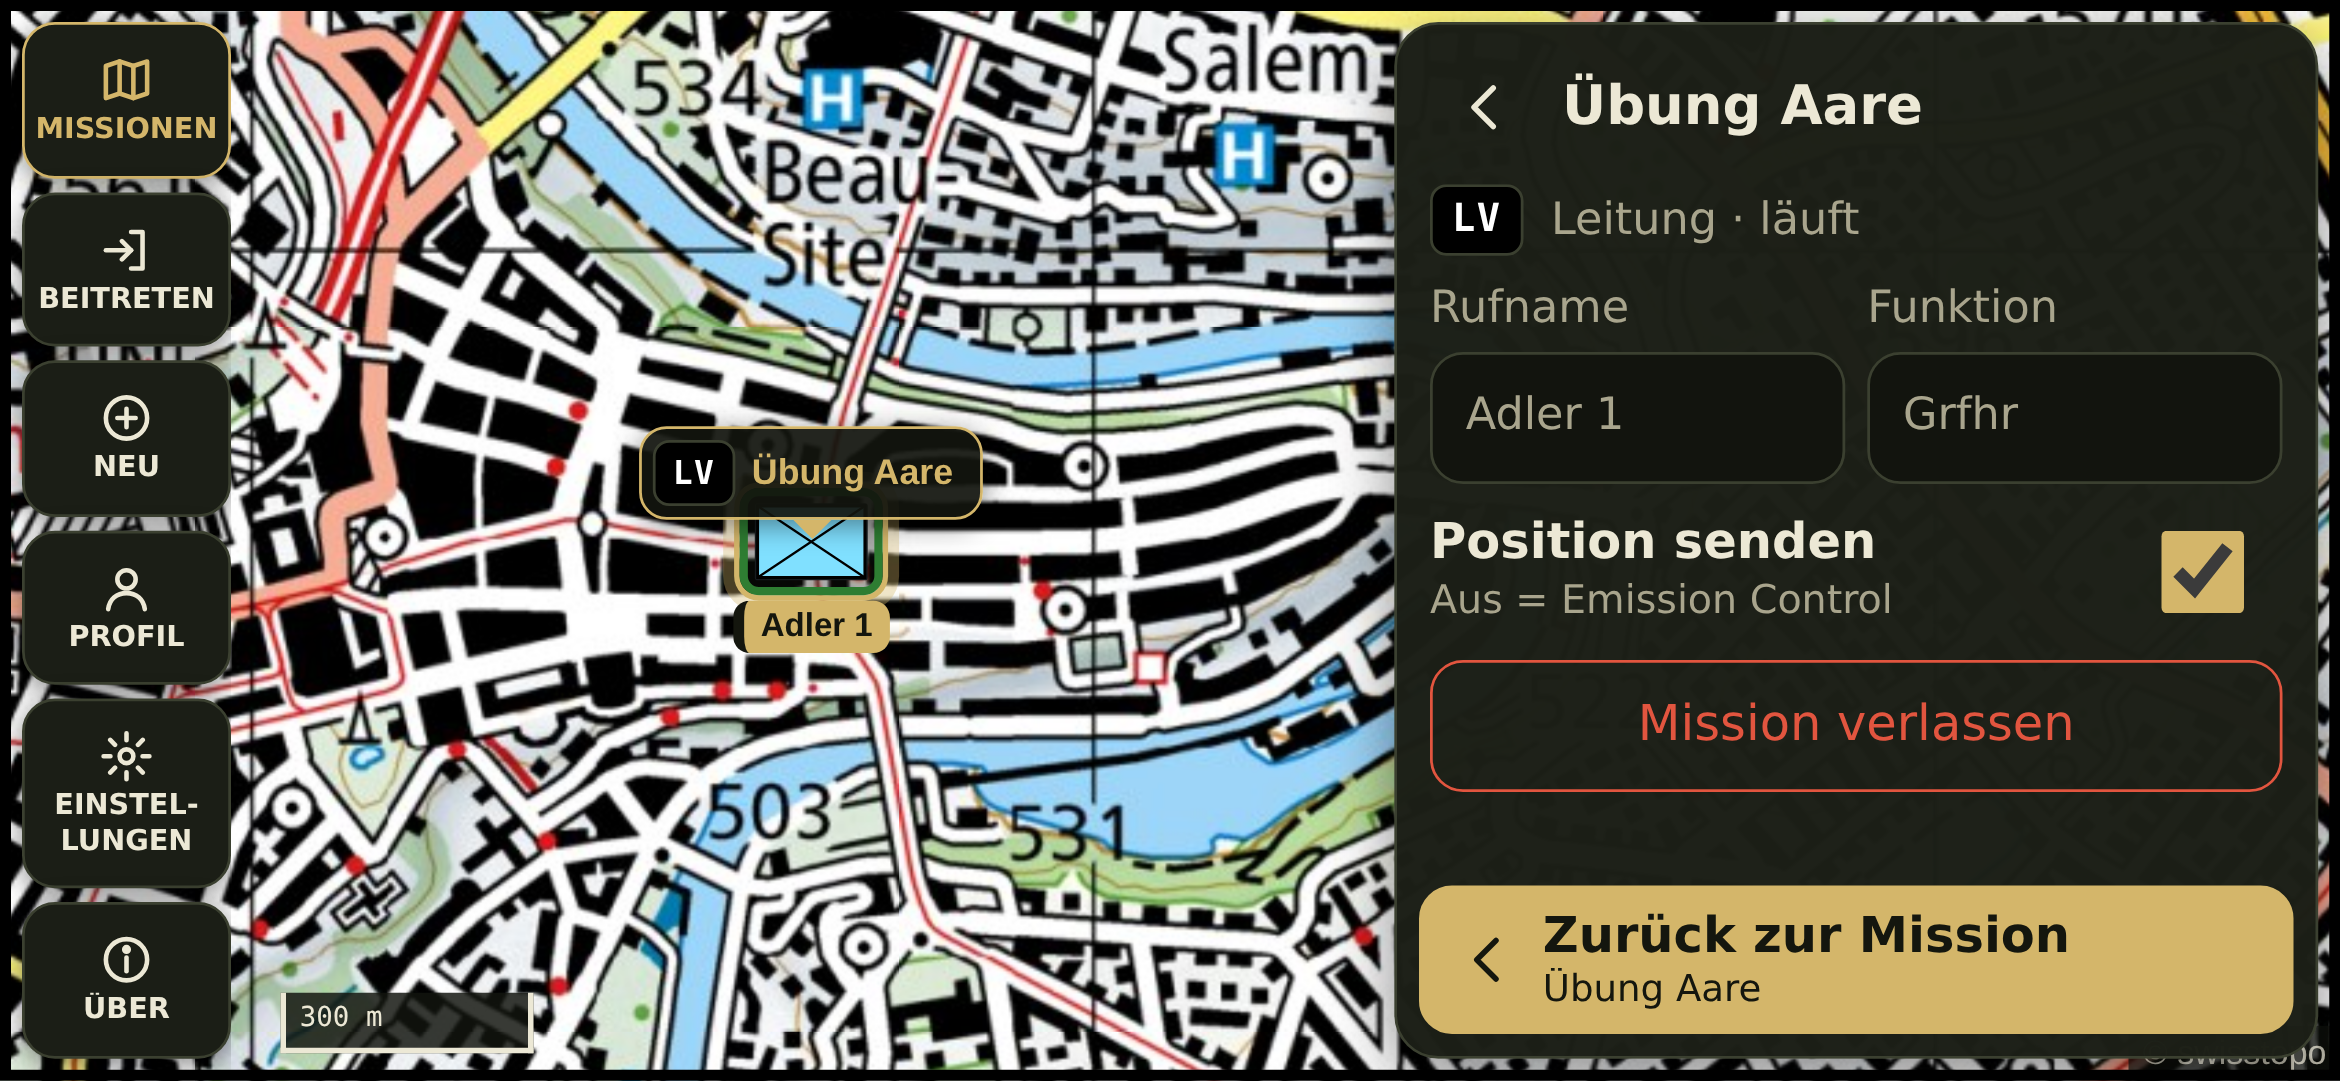
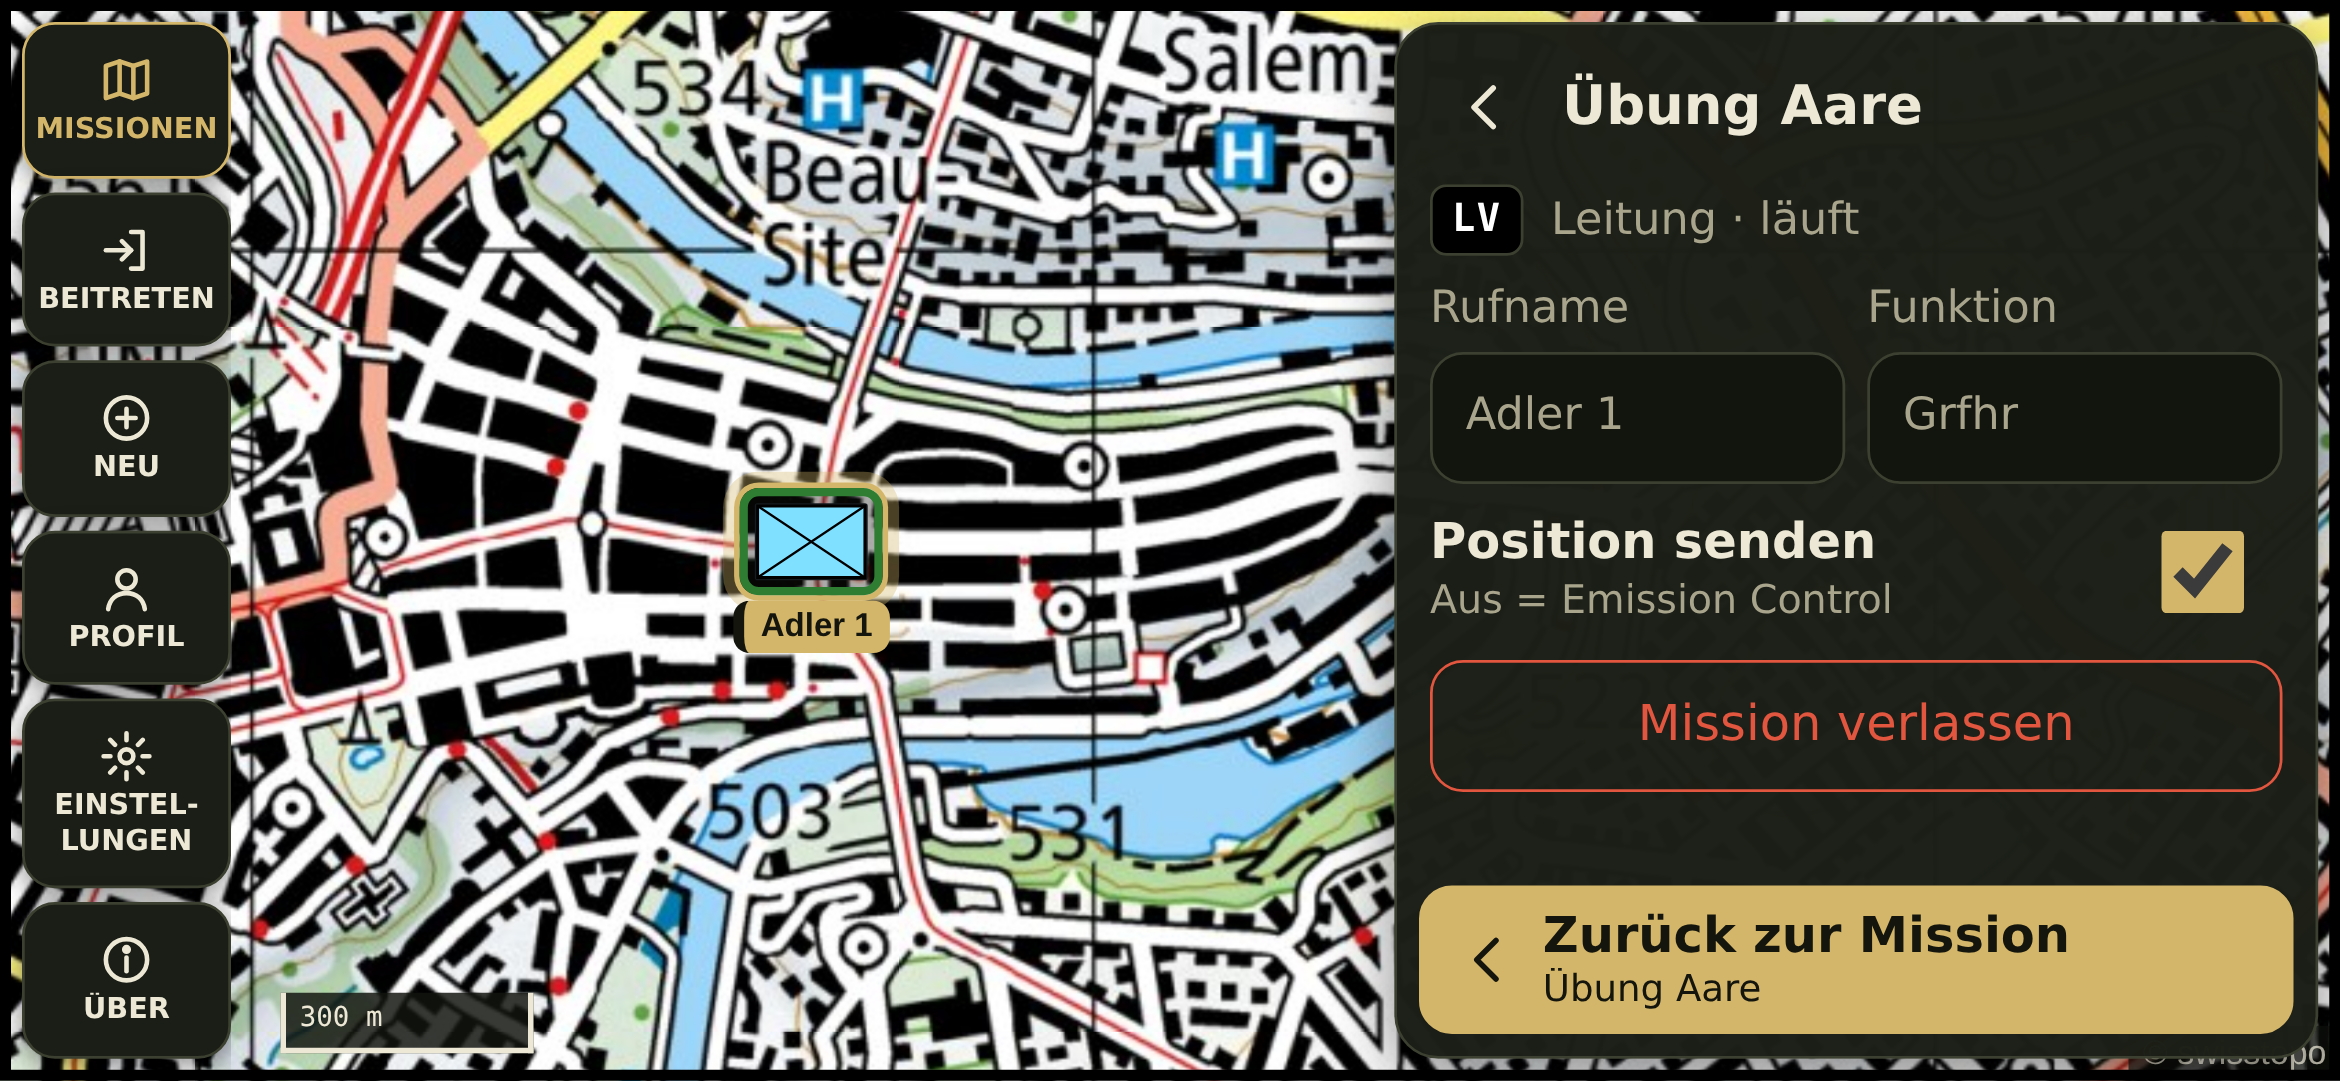
docs: Menü – App-Start immer im Menü, Nachbesserungen, Mutationsnachweis, Bilder
Claude-Session: https://claude.ai/code/session_01Fo5QxxrixuCWEFZHSUx93F

Changed region(s): [[0.2496, 0.3663, 0.4368, 0.519]]

diff --git a/docs/spec.md b/docs/spec.md
@@ -737,19 +737,21 @@ Was Spec v7 offen liess, kleinste vernünftige Wahl; Menü und Profil folgen sep
 
 ### Festgelegt beim Bau (Menü, 01.11.)
 Was Spec v7 und V4 offen liessen, kleinste vernünftige Wahl. Code: `client/src/components/menu/`, Logik `client/src/lib/missionen.ts`, Token und Liste in `client/src/lib/store.svelte.ts`.
-- **App-Start:** Ist eine Mission offen (`lagebild.token`), geht die App wie bisher direkt hinein – Neuladen (Live-Update, Android beendet die App) kostet im Einsatz keinen Tipp. Ohne offene Mission ist das Menü die Startseite (ersetzt den Login): mit `?code=` oder ohne Missionen auf «Beitreten», sonst «Meine Missionen». Aus der Mission öffnet «Menü» die Seite «Meine Missionen».
+- **App-Start (Juan 01.11.: «Immer ins Menü»):** Die App startet immer im Menü (ersetzt den Login), auch mit offener Mission (`lagebild.token`): Neustart, Neuladen, Live-Update und Wiederöffnen nach dem Beenden durch Android landen im Menü mit allen Fähnchen, auf «Beitreten» mit `?code=` oder ohne Missionen, sonst auf «Meine Missionen». Die offene Mission verbindet trotzdem sofort im Hintergrund (Verbindung und Position laufen wie bei «Menü» in der Mission); ein Tipp auf «Zurück zur Mission» geht hinein und fliegt zum gemerkten Ausschnitt. Der erste GPS-Fix zentriert die Karte im Menü nicht; vor dem ersten Snapshot merkt das Gerät keinen neuen Stand der Fähnchen (es wüsste noch nichts von den Zielobjekten). Aus der Mission öffnet «Menü» die Seite «Meine Missionen».
 - **Speicher:** `lagebild.missionen` = Meine Missionen (Lage, Token, Name, Phase, Rolle, Rufname, Funktion, Ausdehnung der Zielobjekte, letzter Ausschnitt), zuletzt besuchte vorne. `lagebild.token` bleibt das Token der offenen Mission: Geräte mit altem Stand bleiben nach dem Update in ihrer Mission, der Eintrag entsteht beim ersten Snapshot. `lagebild.profil` = Einheit, Symbol und zuletzt benutzter Rufname/Funktion. Das Aufräumen je Lage (`speicher.ts`) behält die Schlüssel aller Missionen der Liste.
 - **Abgleich:** `POST /api/missionen {tokens}` (höchstens 50) liefert je Token Lage, Name, Phase und Rolle oder `null` (gelöscht, entfernt); 60 Abfragen je Minute und IP. Bei jedem Öffnen des Menüs; ohne Netz bleibt der Stand vom letzten Besuch. `null` → Eintrag weg, Hinweis «Nicht mehr verfügbar (gelöscht oder entfernt): …».
 - **Stand der Fähnchen:** Zielobjekte und Kartenausschnitt der offenen Mission merkt das Gerät beim Öffnen des Menüs und wenn die App in den Hintergrund geht, nicht bei jeder Kartenbewegung. Ort = Mitte der Box um alle Taufen mit `ziel`, sonst Mitte des letzten Ausschnitts; nie besucht = kein Fähnchen.
-- **Auffächern:** Überlappende Fähnchen stehen als Reihe nebeneinander (nach ihrem Ort von links nach rechts), dünne Leine mit Punkt zum echten Ort; Reihen und einzelne Fähnchen bleiben in der freien Karte zwischen Menüspalte und Panel, eine zu breite Reihe bricht in Zeilen darüber um. Fähnchen sind Kartenobjekte: sie wachsen mit `--karte` wie Symbole, höchstens halb so breit wie die freie Karte (Name mit «…»). Weit weg (Zoom < 11) blendet das Menü die Zeichen der offenen Mission aus.
+- **Auffächern:** Überlappende Fähnchen stehen als Reihe nebeneinander (nach ihrem Ort von links nach rechts), dünne Leine mit Punkt zum echten Ort; Reihen und einzelne Fähnchen bleiben in der freien Karte zwischen Menüspalte und Panel, eine zu breite Reihe bricht in Zeilen darüber um. Fähnchen sind Kartenobjekte: sie wachsen mit `--karte` wie Symbole, höchstens halb so breit wie die freie Karte (Name mit «…»). Weit weg (Zoom < 11) blendet das Menü die Zeichen der offenen Mission aus, nah (Zoom über 13; die Übersicht zeigt höchstens 13) das Fähnchen der offenen Mission selbst, weil es dort ihr Symbol und das Zielobjekt verdeckt; andere Missionen bleiben. Namen brechen am Wortende (`overflow-wrap: break-word`, `hyphens: auto` mit `<html lang="de-CH">`), mitten im Wort nur, wenn ein einzelnes Wort allein nicht in die Zeile passt.
 - **Kamera:** «Meine Missionen» zeigt alle Fähnchen (höchstens Zoom 13), ohne Missionen die Schweiz; die Unterseite fliegt zu den Zielobjekten (bis Zoom 16), sonst zum letzten Ausschnitt. Menüspalte, Panel und Platz für die Fähnchen gehen als `padding` (fitBounds) bzw. `offset` (flyTo) ein, nie als bleibendes Map-Padding. «Mission öffnen» zeigt die Zielobjekte mit Rand für die Bedienung der Mission; «Zurück zur Mission» fliegt zum Ausschnitt, den die Mission beim Öffnen des Menüs hatte.
-- **Menü über der Mission:** Kopf, Ränder, Leiste und Panels der Mission sind ausgeblendet; Kartenlayer, Verbindung und GPS laufen. Öffnen bricht Fadenkreuz, Ring und Koordinaten-Karte ab; im Menü kein Radial-Menü; Esc schliesst das Menü.
+- **Menü über der Mission:** Kopf, Ränder, Leiste und Panels der Mission sind ausgeblendet; Kartenlayer, Verbindung und GPS laufen. Öffnen bricht Fadenkreuz, Ring und Koordinaten-Karte ab; im Menü kein Radial-Menü; Esc wirkt wie «Zurück zur Mission» (gleiche Funktion `zurueckZurMission`, fliegt zum gemerkten Ausschnitt).
 - **Bediengrössen:** Die Menüspalte scrollt, wenn sie nicht ins Fenster passt (Sehr gross auf niedrigem Handy, wie die Daumen-Ränder); Panelinhalt scrollt ebenso, der Hauptknopf von Beitreten/Neu bleibt sichtbar.
 - **Knopf «Menü»:** Daumen-Ränder quer zuunterst in der rechten Spalte (unter «Mehr»), hoch als fünfter Knopf im Dock; Klassisch in der Kopfzeile statt des Zahnrads. «Einstellungen» ist aus dem Mehr-Menü und den Panels verschwunden.
 - **Unterseite:** «Meine Angaben» (Rufname, Funktion) und «Position senden» nur in der offenen Mission, beides braucht die Verbindung; geschlossene zeigen den Stand vom letzten Besuch. Ein geänderter Rufname/Funktion wird zugleich Vorgabe fürs nächste Beitreten. «Mission verlassen» entfernt nur das Token vom Gerät (der Server bleibt unberührt, wie bisher «Lage verlassen»).
 - **Profil:** Einheit und Symbol wirken in der offenen Mission (`ich.aendern`) und bei neuen Beitritten; geschlossene Missionen behalten ihre Angaben (dort kann die Leitung die Einheit gesetzt haben). Gruppenführer: Einheitsfeld gesperrt mit Hinweis.
 - **Beitreten / Neue Mission:** Die Einheit fragt das Formular nur ab, solange das Profil keine hat. Der Hauptknopf bleibt sichtbar, wenn das Formular quer scrollt.
 - **Über:** Web-Stand, Protokoll, Update-Zustand mit «Neu laden» bzw. APK-Download; im Browser «Android-App installieren», sobald der Server eine APK anbietet (auch ausserhalb von Android, zum Weitergeben).
-- **Token-Haltung (Gate-Auflage):** Regel `weiterNach` in `missionen.ts`. Nach Close 4005 verbindet der Client nie mit dem verworfenen Token, sondern wartet, bis im Speicher (`lagebild.missionen`, frisch gelesen) ein anderes Token dieser Mission steht – der Server schliesst vor der Beitritts-Antwort, auch im eigenen Tab –, höchstens 10 s, danach abmelden. `beendet` für ein Token, das nicht mehr gespeichert ist, gilt nicht: weiter mit dem gespeicherten. Auch die normale Wiederverbindung nimmt das gespeicherte Token. Beitreten speichert das neue Token, bevor es verbindet. Abmelden und Verlassen löschen nur Einträge mit dem eigenen Token und `lagebild.token` nur, wo noch das eigene steht.
+- **Token-Haltung (Gate-Auflage):** Regel `weiterNach` in `missionen.ts`. Nach Close 4005 verbindet der Client nie mit dem verworfenen Token, sondern wartet, bis im Speicher (`lagebild.missionen`, frisch gelesen) ein anderes Token dieser Mission steht – der Server schliesst vor der Beitritts-Antwort, auch im eigenen Tab –, höchstens 10 s, danach abmelden. `beendet` für ein Token, das nicht mehr gespeichert ist, gilt nicht: weiter mit dem gespeicherten. Auch die normale Wiederverbindung nimmt das gespeicherte Token. Beitreten speichert das neue Token, bevor es verbindet. Abmelden und Verlassen löschen nur Einträge mit dem eigenen Token und `lagebild.token` nur, wo noch das eigene steht. Ein unterbrochenes Warten (andere Mission geöffnet, abgemeldet) zählt nicht für die Frist der nächsten Mission (`trenne()` setzt sie zurück).
+- **Missionswechsel A→B** (ohne Zwischenschritt über «keine Mission»): Die Feature-Ebenen der Karte (Spuren, Zeichnen mit Verlauf, Taufmodus usw.) werden ab- und für B neu aufgebaut, damit nichts aus A in B hängt. Reconnect und Tokenwechsel nach 4005 (gleiche Lage) lassen sie stehen. Eigene Position und Kräfte bleiben (sie halten nichts von A).
+- **Eigene Angaben live:** Ändert sich der eigene Rufname, die Funktion oder die Rolle (Delta `teilnehmer`), führt das Gerät Meine Missionen sofort nach, nicht erst beim nächsten Snapshot.
 - **Hochformat** (Nebenprüfung): Menüspalte als Dock 3 × 2 unten, Panel darüber, ohne Massstab. Grenze: Liegt eine Mission weit im Süden (z.B. Simplon), schiebt `maxBounds` die Ansicht, und ihr Fähnchen kann unter dem Panel liegen; die Liste bleibt vollständig.
-- **Bilder** (quer 851×393 @2.75, dazu 780×360 @3 und Tag-Thema): `docs/bilder/menu/`.
+- **Bilder** (quer 851×393 @2.75, dazu 780×360 @3 und Tag-Thema): `docs/bilder/menu/`; `quer-app-start-mission-offen.png` zeigt den App-Start mit offener Mission (Menü mit allen Fähnchen, «Zurück zur Mission»).

diff --git a/docs/tests-mutationen.md b/docs/tests-mutationen.md
@@ -1,7 +1,7 @@
 # Mutationsnachweis der Unit-Tests
 
 Je Zeile: eine gezielte Änderung am Produktivcode (Bedingung umgedreht, Prüfung entfernt, Grenzwert verschoben), der danach rote Test, Mutation zurückgenommen.
-Stand 2026-11-01: 278 von 278 Mutationen rot (37 aus Gerätekennung und Rollen, 10 aus den Gate-Auflagen Rollen, 17 aus dem Menü, 01.11.); Stand 2026-10-31: 214 von 214 Mutationen rot (davon 7 aus der Taufe-Überarbeitung 31.10., von Hand). Erzeugt mit einem Runner-Skript (exakte Textersetzung, Testdatei laufen lassen, Datei wiederherstellen).
+Stand 2026-11-01: 286 von 286 Mutationen rot (37 aus Gerätekennung und Rollen, 10 aus den Gate-Auflagen Rollen, 17 aus dem Menü, 8 E2E-Mutationen aus den Nachbesserungen Menü, 01.11.); Stand 2026-10-31: 214 von 214 Mutationen rot (davon 7 aus der Taufe-Überarbeitung 31.10., von Hand). Erzeugt mit einem Runner-Skript (exakte Textersetzung, Testdatei laufen lassen, Datei wiederherstellen).
 
 ## client/src/features/alarm/logik.test.ts
 
@@ -509,6 +509,24 @@ angehoben) bildet das alte Verhalten nach: Herabstufen bleibt geschützt, Hochst
 
 17 von 17 Mutationen rot (Runner wie oben, `vitest run <datei> -t <test>`). Dazu E2E `e2e/menu.e2e.ts` «Token-Regel»: Mutation in `store.svelte.ts`
 `gespeichertesToken()` liest `store.token` statt des Speichers → nach 4005 kein Wechsel aufs neue Token, Test rot (siehe unten).
+
+**Nachbesserungen nach dem Review-Gate (01.11., E2E `e2e/menu.e2e.ts`, Projekt «quer», Runner wie oben mit `playwright test -g <test>`):**
+8 von 8 Mutationen rot, dazu die bisherige (`gespeichertesToken()` liest `store.token`) erneut rot im geschärften «Token-Regel».
+
+| Produktivcode | Mutation | roter Test | Ergebnis |
+|---|---|---|---|
+| `client/src/lib/store.svelte.ts` (`trenne`) | `wartetSeit = 0;` → `(entfernt)` | Token-Regel (unterbrochenes Warten, 4005 nach > 10 s darf nicht abmelden) | rot |
+| `client/src/App.svelte` (`abbau`) | `abbau = true;` → `(entfernt)` (Features bleiben beim Missionswechsel stehen) | Missionswechsel setzt die Features zurück (Spuren aus A, «Keine» in B gesperrt) | rot |
+| `client/src/components/menu/kamera.ts` (`merkeStand`) | `if (!store.lage) return;` → `(entfernt)` | App-Start immer im Menü (gemerkter Ausschnitt bleibt) | rot |
+| `client/src/lib/store.svelte.ts` (`teilnehmer`-Delta) | `if (m.teilnehmer.id === store.ich) merkeMission(` → `if (false) merkeMission(` | App-Start immer im Menü (Rufname live in Meine Missionen) | rot |
+| `client/src/components/menu/Menue.svelte` | Regel `.nah .m-pin.laeuft { display: none }` → `(entfernt)` | App-Start immer im Menü (Fähnchen der offenen Mission nah weg) | rot |
+| `client/src/components/EigenePosition.svelte` | `if (!untrack(() => ui.menue)) m.jumpTo(` → `if (true) m.jumpTo(` (erster Fix zentriert auch im Menü) | App-Start immer im Menü (Übersicht bleibt, Fähnchen sichtbar) | rot |
+| `client/src/lib/store.svelte.ts` (Modulende) | `if (store.token) ui.menue = true;` → `(entfernt)` (App-Start direkt in der Mission) | App-Start immer im Menü | rot |
+| `client/src/lib/store.svelte.ts` (`verbinde`, `onclose`) | `weiter(e.code === 4005 ? 'neuesToken' : 'getrennt', token)` → `weiter('getrennt', token)` (neu verbinden mit dem verworfenen Token) | Beitreten mit dem Code der offenen Mission (Antwort 1,5 s zurückgehalten, kein zweiter hallo) | rot |
+| `client/src/lib/store.svelte.ts` (`gespeichertesToken`) | Lesen aus dem Speicher → `store.token` | Token-Regel | rot |
+
+Ohne Test (kein Verhalten, das klein prüfbar ist, Projektregel «kein Test-Bloat»): Esc = `zurueckZurMission` (Kamera nicht beobachtbar), `weg` in `pruefeMissionen` aus der frischen Liste (Wettlauf), Reihenfolge `...alt, ...angaben` in `anmelden` (der Snapshot überschreibt sie ohnehin gleich), `overflow-wrap`.
+
 
 | Produktivcode | Mutation | roter Test | Ergebnis |
 |---|---|---|---|

diff --git a/README.md b/README.md
@@ -110,3 +110,4 @@ Tests, die bewusst Hochformat, Tablet oder Desktop prüfen, setzen ihren Kontext
 | Rollen in der Mission (31.10.) | Juan: «es braucht innerhalb einermission noch die einstellung der rollen verwaltung» → jetzt vier Rollen nach Spec v5 (Leitung, Gruppenführer, Teilnehmer, Beobachter; Rechte O3), Ersatzleitung erst mit Etappe 4; genau eine Leitung, Wechsel nur per Übergabe; Leitungs-Code wird Gruppenführer-Code; eigener Beobachter-Code; Gruppe = Einheit; laufende Missionen mit mehreren Leitungen: erste bleibt Leitung, übrige werden Gruppenführer (Spec v7) |
 | Menü-Layout V4 (01.11.) | Vier Prototypen quer (Branch `menu-layout`), Juan wählt **V4 «Karte als Menü»**: Menüspalte links, Panel rechts, Missionen als Fähnchen auf der Karte. Ort des Fähnchens: «dort wo das Zielobjekt ist» → Mitte aller Zielobjekte, ohne Zielobjekt letzter Ausschnitt des Geräts; nahe Fähnchen auffächern; alle Missionen gleich stark; Start mit allen Fähnchen im Bild. Gerätekennung/Rollen gehen zusammen mit dem Menü live (ein Update für alle Geräte). Details Spec v7 «Menü-Layout V4». |
 | Gate Rollen (01.11.) | Review-Gate `geraet-rollen`: APPROVE mit Auflagen. Juan: Wiederbeitritt behält die Rolle (Code gilt nur beim ersten Beitritt, sonst hebelt verlassen+neu beitreten jede Herabstufung aus); GF-Code als Generalschlüssel für Gruppen bewusst so festgehalten (Bedienschutz, entfällt mit dezentralen Missionen). Ohne Rückfrage behoben: alte Verbindung nach Wiederbeitritt schliessen, Aufträge enden beim Herabstufen auf Beobachter, Auftraggeber sieht Auftrags-Meldungen. |
+| App-Start (01.11.) | Review-Gate Menü, Frage an Juan: Start mit offener Mission direkt in die Karte oder ins Menü? Juan: «Immer ins Menü». → Die App startet (Neustart, Neuladen, Live-Update) immer im Menü mit allen Fähnchen; die offene Mission verbindet sofort im Hintergrund (Verbindung und Position laufen), in die Karte geht es mit «Zurück zur Mission». Ersetzt «Ist eine Mission offen, geht die App direkt hinein» aus Spec v7. |

diff --git a/docs/tests.md b/docs/tests.md
@@ -16,6 +16,8 @@ Client-Verzeichnisses (`..` kodiert, sonst normalisiert die URL), Code-erneuern-
 
 **Zahlen (31.10.2026):** 483 Tests / 45 Dateien / 4639 Zeilen → **191 Tests / 45 Dateien / 3382 Zeilen**; nach der Taufe-Überarbeitung (31.10.) **194 Tests / 45 Dateien / 3415 Zeilen** (+3: Naht geteilter Kacheln, mehrteilige Gebäude, Selbstüberschneidung); nach Gerätekennung und Rollen (01.11.) **205 Tests / 46 Dateien / 3625 Zeilen** (+11: Reducer-Rollen 6, Gerätenachweis, Wiederbeitritt, Challenges, Migration Spec v7, Rollen live). Nach den Gate-Auflagen Rollen (01.11.) **207 Tests / 46 Dateien / 3674 Zeilen** (+2: Herabstufen auf Beobachter beendet Aufträge, Wiederbeitritt schliesst die alte Verbindung; Tabelle Wiederbeitritt und Meldungs-Sichtbarkeit geschärft). Nach dem Menü (01.11.) **211 Tests / 47 Dateien / 3737 Zeilen** (+4: Token-Regel nach 4005/«beendet», Fähnchen-Ort aus Zielobjekten, Auffächern, Missionen-Abgleich; Aufräumen behält alle Missionen des Geräts).
 
+**E2E (Playwright, 01.11.2026, nach den Nachbesserungen Menü):** 115 Läufe in drei Projekten (quer, quer-gross, hoch), alle grün; `menu.e2e.ts` hat 5 Tests (+2 neu: «App-Start immer im Menü», «Missionswechsel setzt die Features zurück»; «Token-Regel» deckt jetzt auch ein unterbrochenes Warten ab, «Beitreten mit dem Code» hält die Antwort per `page.route` zurück). Seit dem App-Start im Menü gehen alle E2E, die per `goto('/')` oder `reload()` in eine Mission wollen, über `indieMission()` (`e2e/hilfen.ts`). Unit-Tests unverändert (211 / 47 Dateien). Mutationen: [tests-mutationen.md](tests-mutationen.md) «Menü».
+
 ## Was wo getestet wird und warum
 
 | Ebene | Dateien | Tests | Warum nötig |
